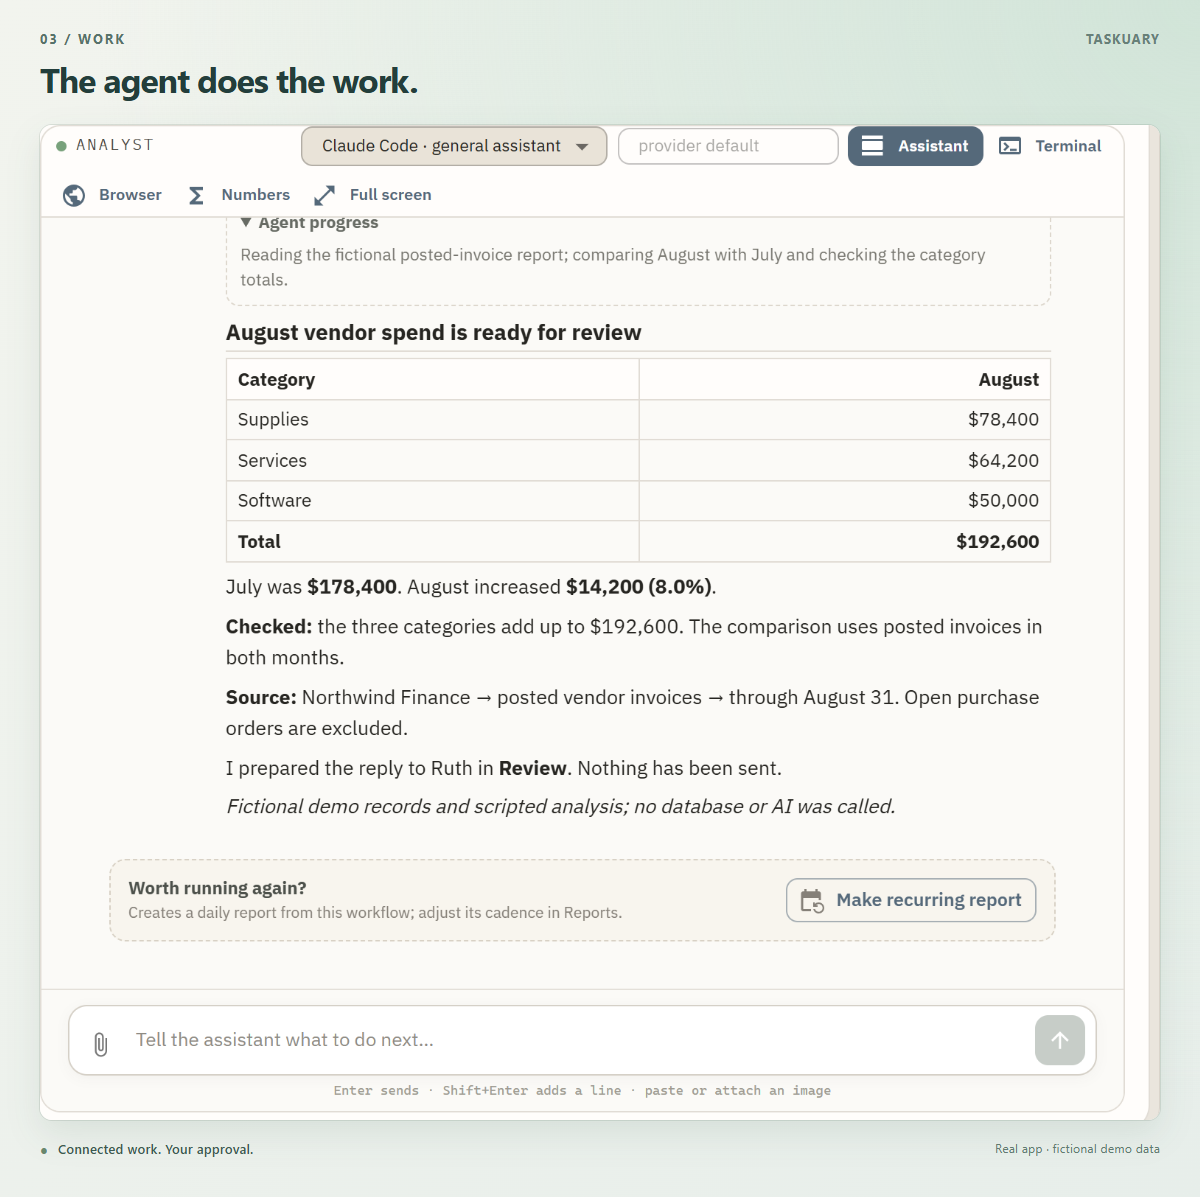
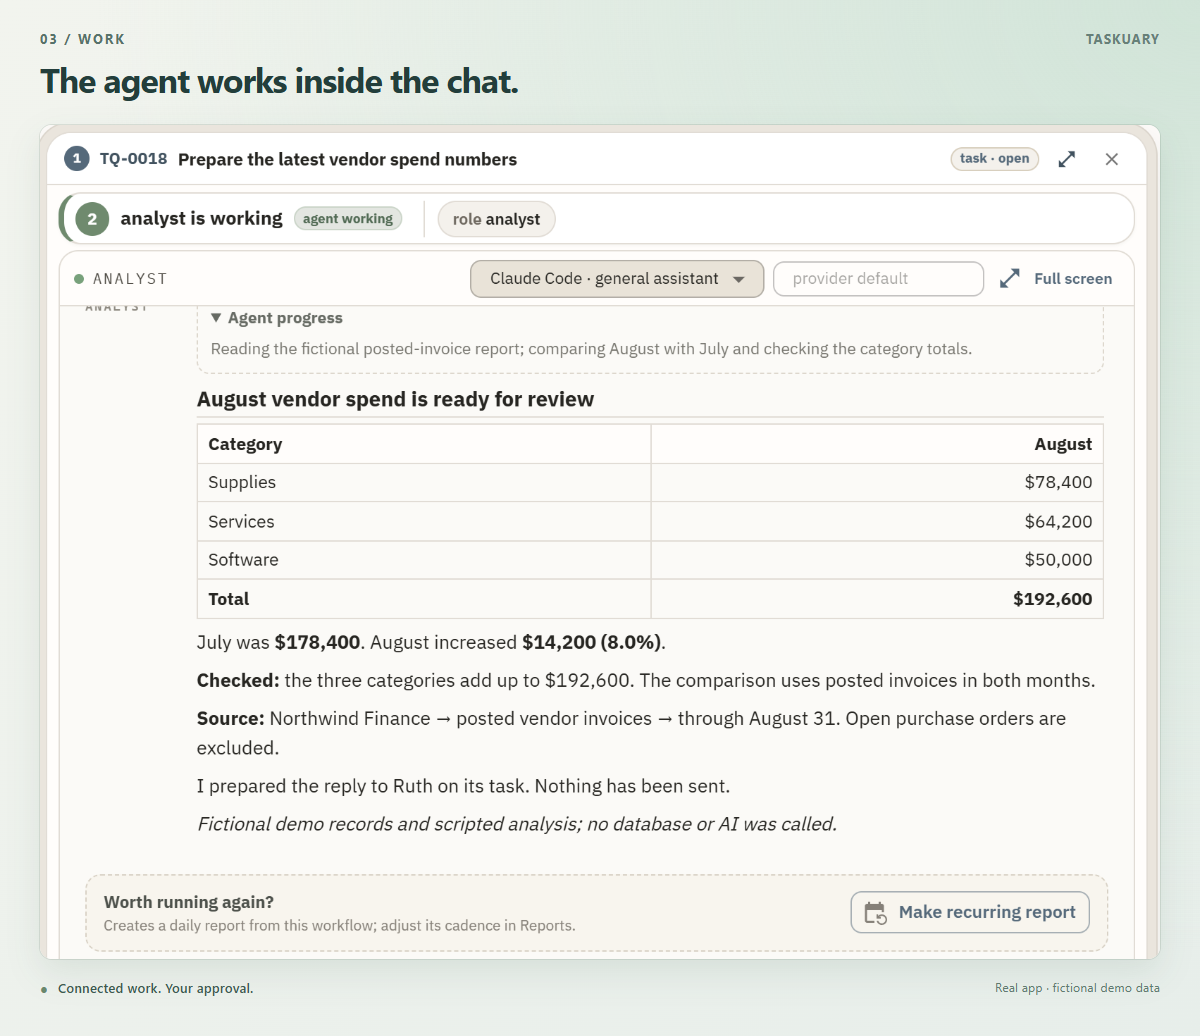
README walkthrough re-shot for the chat: one rail, the assistant walking you through, the task card inside it
The six walkthrough pictures were from before the work rail and the Chat/Task switch. Re-shot from the demo world at
the same framing, and the sections rewritten around the flow as it is now: everything lands on one rail, the
assistant puts one item on the table at a time as a task card whose buttons always do the same thing, and the agent
works inside that card. The Chinese README follows. capture-readme.mjs drives the Chat/Task flow;
render-readme.mjs --walk renders just these six. The hero and the key-feature pictures are unchanged.

diff --git a/README.zh-CN.md b/README.zh-CN.md
@@ -40,47 +40,47 @@ Qwen Code 使用哪个云端或本地模型，由你配置。见[使用 Qwen Cod
 用一个简单流程来了解应用：Ruth 希望在运营会议前拿到最新的供应商支出数据。
 下面用同一项请求，从收到消息走到最终审核；所有业务数据均为虚构。
 
-### 1. 把各处的工作放到同一条时间线
+### 1. 所有工作汇集到一处
 
-邮件、聊天、工单、提醒和报表汇集到 **Timeline**。不用逐个打开系统，也能看到什么刚到、
-什么变成了任务，以及什么正在等你处理。图中的每一行都标注了来源，下面保留原来的时间。
+邮件、聊天、工单、提醒和报表都进入同一条工作栏，并按需要处理的方式分组：
+**Urgent**、**On you**、**For later**、Advisor 的建议，以及 **FYI**。旁边的助手会说明刚到了什么、谁在等你，
+不用逐个打开各个系统。
 
-![时间线中的邮件、Teams、WhatsApp、GitHub、SQL 报表、助手和日历，每行同时显示来源与时间。](https://raw.githubusercontent.com/ldbumble/taskuary/master/docs/readme/01-timeline-sources-and-times.png)
+![工作栏把今天的事项分为 Urgent、On you、Advisor ideas 和 FYI，旁边是助手的早间摘要，列出谁在等你。](https://raw.githubusercontent.com/ldbumble/taskuary/master/docs/readme/01-timeline-sources-and-times.png?v=chat)
 
-### 2. 把请求变成任务
+### 2. 让助手带你逐项处理
 
-Ruth 想要八月份的总额、与七月份的对比，以及按类别划分的明细。
-Taskuary 创建任务，保留原始请求，并关联负责处理的智能体。
+选择 **Walk me through my tasks**。助手每次把一件事带到对话里，形式就是你自己打开时看到的同一张任务卡片，
+下面是接下来的操作：**Next**、**Write reply**、**Start an agent**。按钮每次都做同样的事；
+其他需求直接在对话框里说，助手已经掌握这条消息、整个线程以及你过去的决定。
 
-![任务 TQ-0018 展示原始请求、负责人、任务状态和智能体工作区域。](https://raw.githubusercontent.com/ldbumble/taskuary/master/docs/readme/02-task.png)
+![助手把 Ruth 的请求作为任务 TQ-0018 带入对话，下面是 Next、Write reply 和 Start an agent。](https://raw.githubusercontent.com/ldbumble/taskuary/master/docs/readme/05-assistant.png?v=chat)
 
-### 3. 查看智能体的工作过程
+### 3. 每个请求都成为带有完整经过的任务
 
-打开任务的 **Agent work**，查看分析过程并回答它的问题。
-这里的通用智能体整理支出数据、核对分类合计，并准备回复草稿。
+打开任何事项，都能看到它的来龙去脉：原始消息、分诊的结论和原因、由哪个智能体处理，以及回复进行到哪一步。
 
-![通用智能体整理供应商支出，展示总额、分类明细、环比和数据来源。](https://raw.githubusercontent.com/ldbumble/taskuary/master/docs/readme/03-agent.png)
+![Ruth 的请求对应的任务：原始消息、分诊结论、智能体，以及尚未撰写的回复。](https://raw.githubusercontent.com/ldbumble/taskuary/master/docs/readme/02-task.png?v=chat)
 
-### 4. 审核结果后再发送
+### 4. 智能体在对话里工作
 
-回复进入 **Review**。核对原始请求、金额、收件人和措辞，必要时编辑，
-最后点击 **Approve & send**。你也可以要求重新起草、拒绝，或标记为无需回复。
+点击 **Start an agent**，智能体就在同一张卡片里工作。这里的分析智能体整理支出数据、核对分类合计、
+注明数据来源，并准备回复草稿。任何内容都不会自动发出。
 
-![审核页面对照原始请求与回复草稿，并提供批准发送、重写和拒绝操作。](https://raw.githubusercontent.com/ldbumble/taskuary/master/docs/readme/04-review.png)
+![分析智能体在对话中完成的供应商支出分析，包括分类合计、与七月的变化和数据来源。](https://raw.githubusercontent.com/ldbumble/taskuary/master/docs/readme/03-agent.png?v=chat)
 
-### 5. 让助手带你看下一步
+### 5. 最后由你决定
 
-在 **Assistant** 中选择 **Walk me through my tasks**。
-助手把当前需要关注的任务带入对话，并提供直接打开任务的入口。
+准备好的回复放在任务上，旁边就是最初的请求。阅读、修改，确认无误后点击 **Approve & send**。
 
-![助手围绕 Ruth 的请求展开对话，并链接到对应任务。](https://raw.githubusercontent.com/ldbumble/taskuary/master/docs/readme/05-assistant.png)
+![给 Ruth 的回复草稿在任务上等待审核，并提供 Approve & send、Reject 和 Regenerate with AI。](https://raw.githubusercontent.com/ldbumble/taskuary/master/docs/readme/04-review.png?v=chat)
 
-### 6. 用每日摘要开始一天
+### 6. 在忙起来之前开始一天
 
-打开 **Morning digest**，查看别人需要什么、哪些事情正在推进，以及今天的会议。
-日历就在摘要上方：这项支出分析需要在运营会议前准备好。
+每天早上，助手先在时间轴上列出今天的会议，再告诉你谁需要你回复。
+Ruth 的请求有明确的期限：11:30 的运营会议。
 
-![带有日历动画的每日摘要，展示运营会议和供应商规划会议。](https://raw.githubusercontent.com/ldbumble/taskuary/master/docs/readme/06-morning.gif)
+![早间画面的动画特写：时间轴上的今日会议，以及正在等你的人和智能体。](https://raw.githubusercontent.com/ldbumble/taskuary/master/docs/readme/06-morning.gif?v=chat)
 
 ## 核心功能
 

diff --git a/README.md b/README.md
@@ -35,47 +35,50 @@ Taskuary is early—currently **v0.3.7.1**—so breaking changes are still possi
 One request, from arrival to your approval. Follow Ruth's request for the latest vendor spend
 numbers through the real app, using fictional demo data.
 
-### 1. Connect every system. Keep control.
+### 1. Everything lands in one place
 
-Mail, chats, issue trackers, alerts, and reports land on one Timeline. See what arrived,
-what became a task, and what needs you without opening every system in turn.
+Mail, chats, issue trackers, alerts, and reports arrive on one rail, sorted by what they need:
+**Urgent**, **On you**, **For later**, the Advisor's ideas, and **FYI**. Beside it, the Assistant
+says what came in and who is waiting, so you never open each system in turn.
 
-![An annotated Timeline: each item shows its original time below its source—Email, Teams, WhatsApp, GitHub, SQL report, Assistant, Daily digest, or Calendar.](https://raw.githubusercontent.com/ldbumble/taskuary/master/docs/readme/01-timeline-sources-and-times.png)
+![The work rail sorting today's items into Urgent, On you, Advisor ideas, and FYI, beside the Assistant's morning summary of who is waiting.](https://raw.githubusercontent.com/ldbumble/taskuary/master/docs/readme/01-timeline-sources-and-times.png?v=chat)
 
-### 2. Turn incoming work into tasks
+### 2. Let the Assistant walk you through it
 
-Ruth asks for the August total, the change from July, and a breakdown by category.
-Taskuary creates a task with the original request and assigns it to an agent.
+Choose **Walk me through my tasks**. The Assistant puts one item on the table at a time, as the
+same task card you would open yourself, with the next actions under it: **Next**, **Write reply**,
+**Start an agent**. The buttons always do the same thing; the chat line is for everything else,
+and the Assistant already has the message, the thread, and your past decisions to answer from.
 
-![Ruth's request becomes TQ-0018, with its instructions, owner, and agent work together on the task page.](https://raw.githubusercontent.com/ldbumble/taskuary/master/docs/readme/02-task.png)
+![The Assistant bringing Ruth's request into the chat as task TQ-0018, with Next, Write reply, and Start an agent under it.](https://raw.githubusercontent.com/ldbumble/taskuary/master/docs/readme/05-assistant.png?v=chat)
 
-### 3. Watch the agent work
+### 3. Every request becomes a task with its whole story
 
-Open the task to follow the analysis. Here, the general agent prepares the numbers,
-checks that the categories add up, and drafts a reply.
+Open any item to see how it got here: the message, what triage decided and why, which agent
+has it, and where the reply stands.
 
-![The general agent's completed vendor spend analysis, with category totals, comparison, and source.](https://raw.githubusercontent.com/ldbumble/taskuary/master/docs/readme/03-agent.png)
+![Ruth's request on its task: the message, the triage decision, the agent, and the reply still to write.](https://raw.githubusercontent.com/ldbumble/taskuary/master/docs/readme/02-task.png?v=chat)
 
-### 4. Approve the outcome
+### 4. The agent works inside the chat
 
-The reply waits in **Review**, beside the request that started it. Read it, edit it,
+**Start an agent** and it works in the same card. Here the analyst prepares the numbers, checks
+that the categories add up, names its source, and drafts the reply. Nothing is sent.
+
+![The analyst's finished vendor spend analysis inside the chat, with category totals, the change from July, and its source.](https://raw.githubusercontent.com/ldbumble/taskuary/master/docs/readme/03-agent.png?v=chat)
+
+### 5. The last word is yours
+
+The prepared reply waits on the task, beside the request that started it. Read it, edit it,
 and choose **Approve & send** when it is ready.
 
-![Review shows Ruth's original request and the prepared reply, with Approve & send waiting for the owner.](https://raw.githubusercontent.com/ldbumble/taskuary/master/docs/readme/04-review.png)
+![The drafted reply to Ruth waiting on its task, with Approve & send, Reject, and Regenerate with AI.](https://raw.githubusercontent.com/ldbumble/taskuary/master/docs/readme/04-review.png?v=chat)
 
-### 5. Let the Assistant walk you through it
+### 6. Start your day before it gets busy
 
-Choose **Walk me through my tasks**. The Assistant brings one item into the conversation,
-explains what needs your attention, and puts the next action within reach.
+Each morning the Assistant opens with today's meetings on a timeline and who needs a word from you.
+Ruth's request has a clear deadline: the 11:30 operations review.
 
-![A close-up of the Assistant bringing Ruth's request into the conversation, with a link to its task.](https://raw.githubusercontent.com/ldbumble/taskuary/master/docs/readme/05-assistant.png)
-
-### 6. Start your day with the daily digest
-
-Open your morning brief to see what people need, what is in flight, and what is on your calendar.
-The day's meetings sit above the digest, so Ruth's request has a clear deadline: the operations review.
-
-![An animated close-up of the morning digest and calendar, showing the operations review and vendor planning meeting.](https://raw.githubusercontent.com/ldbumble/taskuary/master/docs/readme/06-morning.gif)
+![An animated close-up of the morning: today's meetings on a timeline, then the people and agents waiting.](https://raw.githubusercontent.com/ldbumble/taskuary/master/docs/readme/06-morning.gif?v=chat)
 
 ## Key features
 
